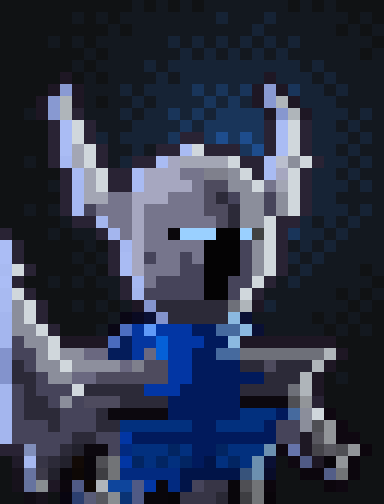
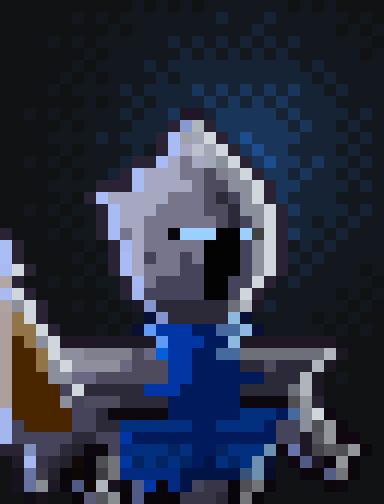
Sven follows the reference: no cape (bare blue back), flat blade with steel rim around a gold channel, ridged spike-rib crest, grey armoured legs

diff --git a/shared/vox/heroes/sven.js b/shared/vox/heroes/sven.js
@@ -1,8 +1,9 @@
-// Voxel Sven, a chibi of his Dota 2 model (hand-authored): a silver full helm with a dark visor slit and two big curved horns; a bare, broad
-// blue torso and upper arms (lighter blue muscle bands), a deep blue cape down the back; huge layered silver pauldrons; dark gauntlets with
-// silver cuffs; a dark belt with a silver plate, silver tassets, dark armoured legs with silver knee plates and greaves; the Outcast Blade: a
-// wide, flat steel greatsword with a dark grip, widening to a squared, hooked tip, held low in the right hand and swept up and out to his
-// right. Signature reads: blue torso between big silver pauldrons, horned silver helm, oversized flat steel greatsword. Grid 56 x 56 x 56 (room for the blade in every pose), ~44 voxels tall, faces -y.
+// Voxel Sven, a chibi of his Dota 2 model (hand-authored): a silver full helm with a dark visor slit, a ridged crest of curved spike-ribs
+// sweeping back and small side spikes; a bare, broad blue torso, back and upper arms (lighter blue muscle bands); huge layered silver
+// pauldrons; dark gauntlets with silver cuffs; a dark belt with a silver plate, grey tassets, grey armoured legs with silver knees and
+// greaves; the Outcast Blade: a wide, flat greatsword, steel rim around a gold-orange channel, dark grip, squared hooked tip, held low in
+// the right hand and swept up and out to his right. Signature reads: blue torso between big silver pauldrons, ridged silver helm,
+// oversized flat gold-and-steel greatsword. Grid 56 x 56 x 56 (room for the blade in every pose), ~44 voxels tall, faces -y.
 import { Vox } from '../vox.js';
 import { useMat } from '../mats.js';
 import { solve, add3, mul3, norm3, cross3, dot3, sub3, apM } from '../rig.js';
@@ -31,8 +32,6 @@ export function build(p = {}) {
     visor: useMat(v, 'visor', { ramp: ['#040304', '#0a070b', '#120e14', '#1c161e'] }),
     eye: useMat(v, 'eye', { emit: '#9ad0ff', tier: 'eye', gain: 0.6 }),
     gold: useMat(v, 'gold', { ramp: ['#4a2600', '#7f4802', '#b8720e', '#e6a43a'] }),
-    cape: useMat(v, 'cape', { ramp: ['#010c34', '#021e6a', '#0436a0', '#1258c8'] }),
-    capeD: useMat(v, 'capeD', { ramp: ['#010616', '#02103c', '#041c5a', '#0a2c7a'] }),
     grip: useMat(v, 'grip', { ramp: ['#120a06', '#2a1a0e', '#402a18', '#5a3e26'] }),
   };
 
@@ -40,9 +39,9 @@ export function build(p = {}) {
   for (const k of ['R', 'L']) {
     const f = J['foot' + k], an = J['ankle' + k], kn = J['knee' + k], hp = J['hip' + k];
     feet(v, f, 'boot', M.dark, { hw: 2.2, front: 3.8, back: 1.8, h: 3.2 });
-    limb(v, [an, kn], [1.8, 1.9], M.dark);
-    band(v, an, kn, 0.2, 0.75, 1.95, M.steelD);
-    limb(v, [kn, hp], [2, 2.3], M.dark);
+    limb(v, [an, kn], [1.8, 1.9], M.steelD);
+    band(v, an, kn, 0.2, 0.75, 1.95, M.steel);
+    limb(v, [kn, hp], [2, 2.3], M.steelD);
     v.ellipsoid(kn[0], kn[1] - 0.9, kn[2], 1.6, 1.3, 1.5, M.steel);
   }
   // ---- tassets: short silver plate skirt over the hips, dark hem
@@ -73,14 +72,6 @@ export function build(p = {}) {
     pauldron(v, [sh[0] + s * 0.2, sh[1] + 0.2, sh[2]], [5, 4.8, 3.8], (px, py, pz) => (Math.abs(px - sh[0] - s * 1.8) < 0.5 && pz > sh[2] + 1.8 ? M.steelD : M.steel), M.steelD, 0.8);
   }
 
-  // ---- cape: deep blue cloth hung from under the pauldrons down the back, widening, a ragged hem and a dark lining edge
-  vol(v, T.torso, cx - 9, cy + 2, 6, cx + 9, cy + 7, 24, (px, py, pz) => {
-    const dx = px - cx, w = 5.2 + (24 - pz) * 0.2, back = cy + 3.4 + (24 - pz) * 0.08; if (Math.abs(dx) > w) return;
-    if (py < back || py > back + 1.1) return;
-    if (pz < 7.4 + Math.abs(((dx + 9) % 2.6) - 1.3) * 1.4) return;
-    return Math.abs(dx) > w - 0.8 ? M.capeD : M.cape;
-  });
-
   // ---- helm (head space): silver full helm, dark T visor, a row of curved fins up the crest, two horns sweeping back
   const Th = T.head, [hx, hy, hz] = [cx, cy + PROP.headY, PROP.headZ];
   ell(v, Th, [hx, hy, hz], [5.6, 5.6, 6.4], (px, py, pz) => {
@@ -93,12 +84,14 @@ export function build(p = {}) {
     if (zz < -4.6) return M.steelD;                                                                                      // chin rim
     return M.steel;
   });
-  // two big curved horns from the helm sides: out, then up and back, tapering to a point
-  for (const s of [-1, 1]) {
-    const pts = [[hx + s * 4.6, hy + 0.4, hz + 1.6], [hx + s * 7.4, hy + 0.8, hz + 3], [hx + s * 9, hy + 1.8, hz + 6], [hx + s * 9.2, hy + 3.4, hz + 9.4], [hx + s * 8.4, hy + 5, hz + 11.6]];
-    const rr = [1.6, 1.35, 1.05, 0.75, 0.4];
-    for (let i = 0; i + 1 < pts.length; i++) cap(v, Th, pts[i], pts[i + 1], rr[i], i > 2 ? M.steelD : M.steel, rr[i + 1]);
+  // ridged crest: four curved spike-ribs along the top, each rising then sweeping back to a point (front rib tallest)
+  for (let i = 0; i < 4; i++) {
+    const y0 = hy - 3 + i * 2.3, z0 = hz + 6.4 * Math.sqrt(Math.max(0, 1 - ((y0 - hy) / 5.6) ** 2)) - 0.8, hh = 3.6 - i * 0.6;
+    const pts = [[hx, y0, z0], [hx, y0 + 0.6, z0 + hh * 0.6], [hx, y0 + 2.6, z0 + hh]];
+    cap(v, Th, pts[0], pts[1], 1.2, M.steel, 0.9);
+    cap(v, Th, pts[1], pts[2], 0.9, i % 2 ? M.steelD : M.steel, 0.4);
   }
+  for (const s of [-1, 1]) cap(v, Th, [hx + s * 4.8, hy + 0.4, hz + 1.4], [hx + s * 6.4, hy + 4.4, hz + 3.6], 1.2, M.steel, 0.5);   // small side spikes swept back
 
   // ---- the Outcast Blade in the right hand: grip + pommel, broad crossguard, gold channel in a silver rim, flared cleaver tip
   // flat of the blade faces the body's front (it reads broad from the camera, as in the game), width across it
@@ -107,12 +100,12 @@ export function build(p = {}) {
   v.capsule(add3(h, mul3(d, -2.6)), add3(h, mul3(d, 1.2)), 0.7, M.grip);
   v.ellipsoid(...add3(h, mul3(d, -3)), 1, 1, 1, M.steelD);
   obox(v, add3(h, mul3(d, 1.4)), add3(h, mul3(d, 2.6)), side, 3.4, 1, M.steelD);
-  // wide flat steel blade (one voxel thick), squared flared tip with a hooked corner, a dark fuller line down the middle
+  // wide flat blade (one voxel thick): a steel rim around a gold-orange inner channel, squared flared tip with a hooked corner
   const L = 22, b0 = add3(h, mul3(d, 2.6)), wAt = t => (t < 0.8 ? 2.6 + t * 2.4 : 4.5);
   obox(v, b0, add3(b0, mul3(d, L)), side, wAt, 0.5, (px, py, pz, t) => {
     const off = dot3(sub3([px, py, pz], b0), side);
     if (t > 0.9 && off < -1 - (t - 0.9) * 30) return;                                     // hooked tip: cut one corner back
-    return t > 0.06 && t < 0.8 && Math.abs(off) < 0.6 ? M.steelD : M.steel;
+    return t > 0.05 && t < 0.84 && Math.abs(off) < wAt(t) - 1.3 ? M.gold : M.steel;
   });
   return v;
 }

diff --git a/client/src/art/portraits/sven.js b/client/src/art/portraits/sven.js
@@ -1,7 +1,7 @@
 // GENERATED by tools/vox/portrait.mjs (sven) -- do not edit by hand. Voxel HUD portrait 32x42 (= the 32x42 the HUD shows, 1 art px = 1 u), opaque.
 // Loaded by client/src/art/portraits.js, which swaps it into the sheet's 'portrait' frame unless ?vox=0.
 export default {
-  pal: { '0':'#02307e', '1':'#a6a7c0', '2':'#4e4b5e', '3':'#0236a4', '4':'#040304', '5':'#a3a6b4', '6':'#a4b6ee', '7':'#0c080e', '8':'#afb5ba', '9':'#a9bbf3', '!':'#13181f', '#':'#101214', '$':'#162335', '%':'#292334', '&':'#46445a', '(':'#2c2a38', ')':'#011a5c', '*':'#76758c', '+':'#d0d7dc', ',':'#1e1724', '-':'#8b8e9b', '/':'#19355a', ':':'#6e7079', ';':'#09060b', '<':'#0c060d', '=':'#a6b8f1', '>':'#0f0811', '?':'#022a80', '@':'#011448', 'A':'#aabcf4', 'B':'#8d8f9d', 'C':'#6a6880', 'D':'#022562', 'E':'#373546', 'F':'#466a9e', 'G':'#4f4f54', 'H':'#929599', 'I':'#727477', 'J':'#9ad0ff', 'K':'#0a1034', 'L':'#8393cc', 'M':'#0436a0', 'N':'#505a85', 'O':'#1e4d8d', 'P':'#7f808c', 'Q':'#abbdf5', 'R':'#a8baf1', 'S':'#8bb9e0', 'T':'#041c5a', 'U':'#1e1824', 'V':'#22212c', 'W':'#6c90af', 'X':'#17121c', 'Y':'#8a9ad3', 'Z':'#8899d1', '[':'#0a0715', ']':'#0560d8', '^':'#58575f', '_':'#0e0805', 'a':'#3e3e42', 'b':'#888d91', 'c':'#0e459c', 'd':'#8999d2', 'e':'#8797cf', 'f':'#bbbfce', 'g':'#0a070b', 'h':'#414242', 'i':'#8595ce', 'j':'#0a0a22', 'k':'#4d6ec0', 'l':'#5f9af8', 'm':'#4a6bbe', 'n':'#808eba', 'o':'#6674ab', 'p':'#45444a', 'q':'#201b29', 'r':'#120a06', 's':'#6874a1', 't':'#3d3a49', 'u':'#37537b', 'v':'#080c29', 'w':'#535e88', 'x':'#66739f', 'y':'#110d15', 'z':'#080510', '{':'#2c3f6f', '|':'#585b77', '}':'#56575e', '~':'#0a3374', '¡':'#070508', '¢':'#292834', '£':'#09050a' },
+  pal: { '0':'#a6a7c0', '1':'#02307e', '2':'#4e4b5e', '3':'#8b8e9b', '4':'#0236a4', '5':'#040304', '6':'#0c080e', '7':'#a9bbf3', '8':'#0c060d', '9':'#6e7079', '!':'#13181f', '#':'#101214', '$':'#162335', '%':'#011a5c', '&':'#292334', '(':'#19355a', ')':'#46445a', '*':'#2c2a38', '+':'#76758c', ',':'#1e1724', '-':'#4a2600', '/':'#d0d7dc', ':':'#09060b', ';':'#ac9f9e', '<':'#afb5ba', '=':'#0f0811', '>':'#022a80', '?':'#011448', '@':'#917447', 'A':'#8d8f9d', 'B':'#022562', 'C':'#373546', 'D':'#7f808c', 'E':'#0a1034', 'F':'#466a9e', 'G':'#4f4f54', 'H':'#929599', 'I':'#727477', 'J':'#9ad0ff', 'K':'#a4b6ee', 'L':'#6a6880', 'M':'#505a85', 'N':'#17121c', 'O':'#a3a6b4', 'P':'#1e4d8d', 'Q':'#a6b8f1', 'R':'#8bb9e0', 'S':'#1e1824', 'T':'#22212c', 'U':'#6c90af', 'V':'#abbdf5', 'W':'#a8baf1', 'X':'#5f9af8', 'Y':'#58575f', 'Z':'#0e0805', '[':'#888d91', ']':'#8899d1', '^':'#9da0ad', '_':'#bbbfce', 'a':'#aabcf4', 'b':'#0a070b', 'c':'#414242', 'd':'#b3a6a5', 'e':'#afa3a1', 'f':'#8595ce', 'g':'#8393cc', 'h':'#0560d8', 'i':'#808eba', 'j':'#6674ab', 'k':'#45444a', 'l':'#201b29', 'm':'#120a06', 'n':'#6874a1', 'o':'#3d3a49', 'p':'#3e3e42', 'q':'#37537b', 'r':'#080c29', 's':'#535e88', 't':'#66739f', 'u':'#110d15', 'v':'#0a0508', 'w':'#585b77', 'x':'#56575e', 'y':'#09050a', 'z':'#070508', '{':'#292834' },
   face: [4, 11, 24, 24],
   rows: [
     '###########!#!#!#!!!!!!!#!#!####',
@@ -10,41 +10,41 @@ export default {
     '####!#!#!!!!!!$!$!$!$!$!$!!!!!!#',
     '#######!#!!!!!!$!$!$!$!$!!!!!!#!',
     '######!#!!!!$!$$$$$$$$$$$!$!!!!!',
-    '#####,#!#!!!!$!$$$$$$$,$$$!$!!!!',
-    '####,Y,!!!$!$$$$/$/$/,Y,/$$!$!!!',
-    '###,Z8,!#!!$!$$$$/$/$,d8,$$$!!!!',
-    '##!,Z8%!!!$!$$/$/$////,e8,$$$!$!',
-    '####%A+%!!!$$$$/$/////%A+%$$!$!!',
-    '####%A+%$!$$$$/%%/O/O/%A+%$$$!$!',
-    '####%A5+%!!$!%%9+%%%/O%A+%$$!$!!',
-    '##!#%=5+%!$%%915555+%%9f-+%$$!$!',
-    '#####%95+%%9111**PP-+%91+%$$!$!!',
-    '####!%=5+%%91111*22--+*5+%$$$!$!',
-    '#####%=55**111***2(&--&-+%$$!!!!',
-    '##!#!%=&***1*****22(--&-+%$$$!$!',
-    '#####!%%6**1******2(--+%%$!$!$!!',
-    '%###!#!!%6*1**gJJJ44Jh+%/$$!$!!!',
-    'Q%#####!#%=1*****444&-+%!$!$!!!!',
-    'Q%####!#!%91&**&*444&-+%$!$!!!!!',
-    'R+%####!#%91***&&444&-+%!$!!!!#!',
-    'Q%##!#!#!!%=*&&&&44&&+%!$!!!!!!#',
-    'R+%######!%6&&&&&44&+%!!!!!!#!#!',
-    'R-+%##!#!#!,i((((((:8,$!!!!!!#!#',
-    '6-+%#####![jKL(((((SK!!!!!#!#!##',
-    '6--+%###![kMl333))FFSK!!!!!#!#!#',
-    '6&--+,,,,mTMM]333))S,,,,,,,,####',
-    'L&&-+BBCCTTMC]33))FF:::::::8,###',
-    'L(&--+BBBBCP2233))))((2(((8,####',
-    'L((&--CC22222233))))))(((8,#!###',
-    '6&(&&&+(((((333)))))((((:8,#####',
-    '6&((&-&222(((())))))7777GH%#####',
-    '6&(((&&&(77777))))))000)F-+>####',
-    '6&&&(&&&((000000))0000)&&-GH>###',
-    '6&&&&&((&&3))))))))))))&&U^H>>##',
-    '%%n&&(V77&?000D0))D000W>oUp^GH<#',
-    '#q=E(Vr;GI3D0D0D)@0D0WK#>NU;H<##',
-    '#XstV;_;aI?????@@@@@uWv##<<wI<##',
-    '#Xxb,<N_8ccN3;?@&EE;GI<####<>###',
-    '##yX#z{|}b~N;;¡EEE¢;aI£#########'
+    '#####!#!#!!!!$!$$$$$$$$$$$!$!!!!',
+    '####!#!!!!$!$$$$($($($($($$!$!!!',
+    '#######!#!!$!$$$$($($($($$$$!!!!',
+    '##!#!#!!!!$!$$(,,$((((($($$$$!$!',
+    '#####!#!!!!$$$&]<&(((((($($$!$!!',
+    '####!!!!$!$$$&7^O/&(P(((($$$$!$!',
+    '#####!#!!!!$!&70_O/&(P(($$$$!$!!',
+    '##!#!#!!!!$&&70+0O3/&(P(($($$!$!',
+    '#####!#!!$&7000++2D3/&(($($$!$!!',
+    '####!!!!&&&70000+2233/&(($$$$!$!',
+    '#####!#&a00000+++2*)3/&($$$$!!!!',
+    '##!#!#!!&7000++++22*33/&($$$$!$!',
+    '#####!#!&700++++++2*)3/&$$!$!$!!',
+    '&###!#!!&7+0++bJJJ55Jc/&($$!$!!!',
+    'V&#####!#&Q0+++++555)3/&!$!$!!!!',
+    'V&####!#!&70)++)+555)3/&$!$!!!!!',
+    'W/&####!#&70+++))555)3/&!$!!!!#!',
+    'd&##!#!#!!&Q+))))55))/&!$!!!!!!#',
+    'W/&######!&K)))))55)/&!!!!!!#!#!',
+    'e3/&##!#!#!,f******9<,$!!!!!!#!#',
+    ';@/&#####!#!Eg*****RE!!!!!#!#!##',
+    ';@@/&###!#!EX444%%FFRE!!!!!#!#!#',
+    ';-@3/,,,,,,,,X444%%R,,,,,,,,####',
+    ';--@/AADDDD2Lh44%%FF9999999<,###',
+    ';--@3/AAAAL22244%%%%**2***<,####',
+    ';---33LL22222244%%%%%%***<,#!###',
+    ';----)/*****444%%%%%****9<,#####',
+    ';----3)222****%%%%%%6666GH&#####',
+    'K-----))*66666%%%%%%111%F3/=####',
+    'K)----))**111111%%1111%))3GH=###',
+    'K)))))**))4%%%%%%%%%%%%))SYH==##',
+    '&&i))*T66)>111B1%%B111U=jSkYGH8#',
+    '#lQC*Tm:GI4B1B1B%?1B1UE#=MS:H8##',
+    '#NnoT:Z:pI>>>>>?????qUr##88sI8##',
+    '#Nt[,8MZ<N8M4:>?)CC:GI8####8=###',
+    '##uN##vwx[yM::zCCC{:I8##########'
   ]
 };
